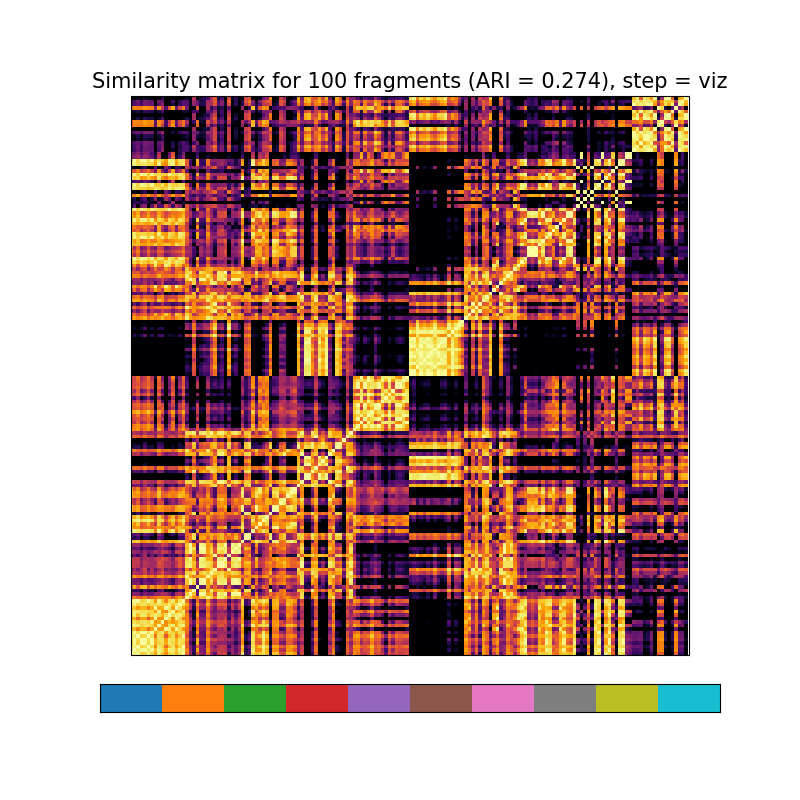
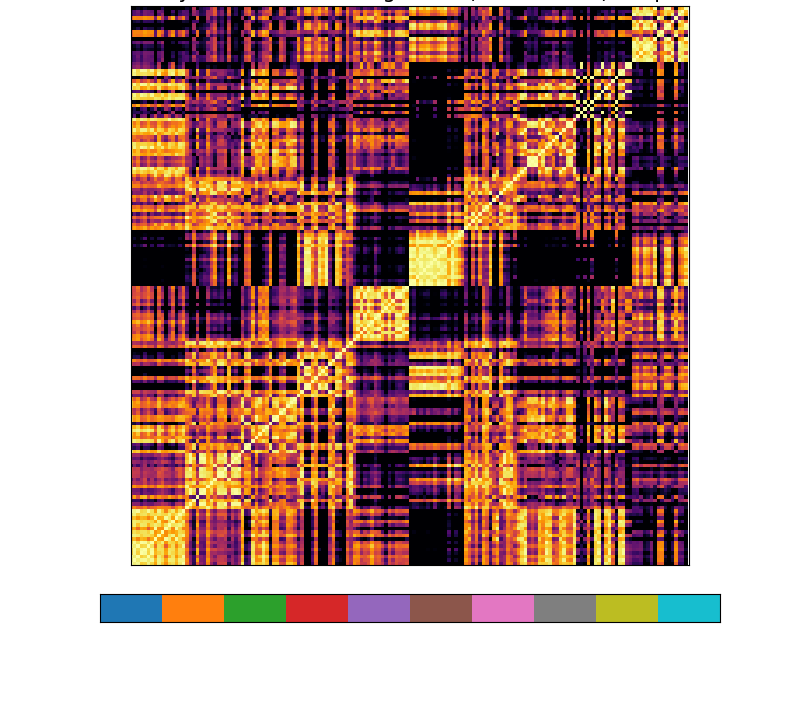
added img

diff --git a/src/main.py b/src/main.py
@@ -74,7 +74,7 @@ def evaluate_performances(dataset, encoder, loss_func, sample_size=10, repeat = 
     
     if plot_clusters:
     
-        # Optional: visualize only the first 100 fragments sorted by label
+        # Optional: visualize only the first 160 fragments sorted by label
         sorted_indices = np.argsort(true_labs)[:160] # First 10 images
         embs = embs[sorted_indices]
         true_labs = true_labs[sorted_indices]
@@ -125,7 +125,7 @@ def evaluate_performances(dataset, encoder, loss_func, sample_size=10, repeat = 
         sim_matrix[sim_matrix<0.5] = 0.5
             
             
-        title = f"Similarity matrix for 100 fragments (ARI = {ari:.3f}), step = {step}"    
+        title = f"Similarity matrix for 160 fragments (ARI = {ari:.3f}), step = {step}"    
         plot_path = f"Figure/imshow_sim.{step}.png"
         
         fig = plt.figure(figsize=(8, 8))
